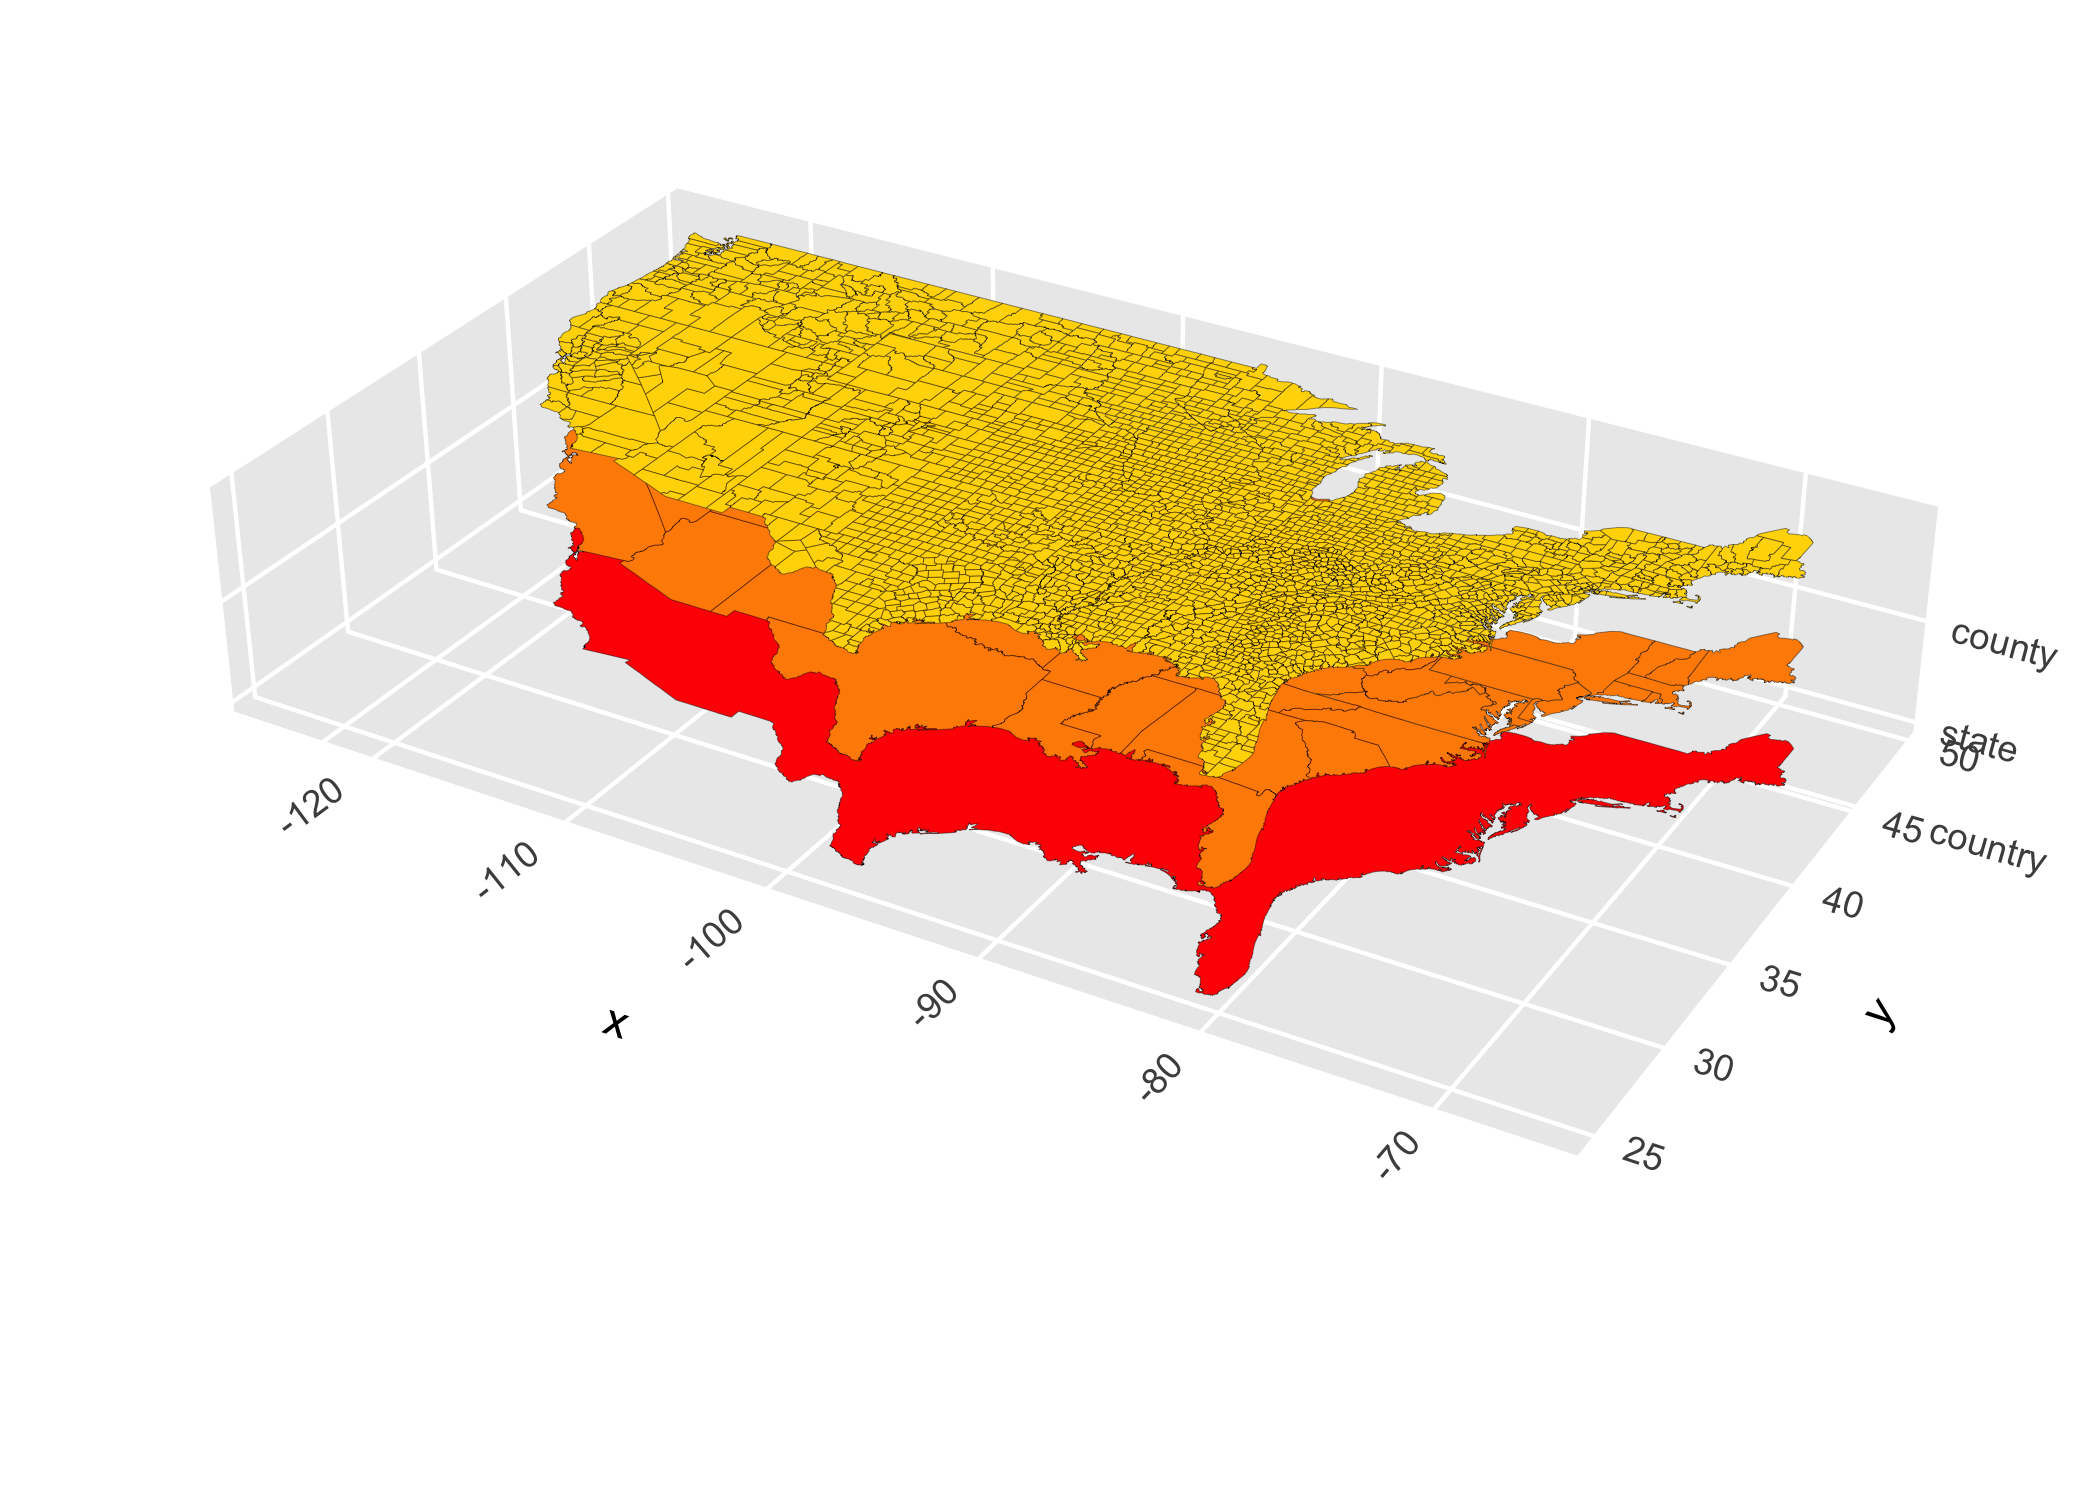
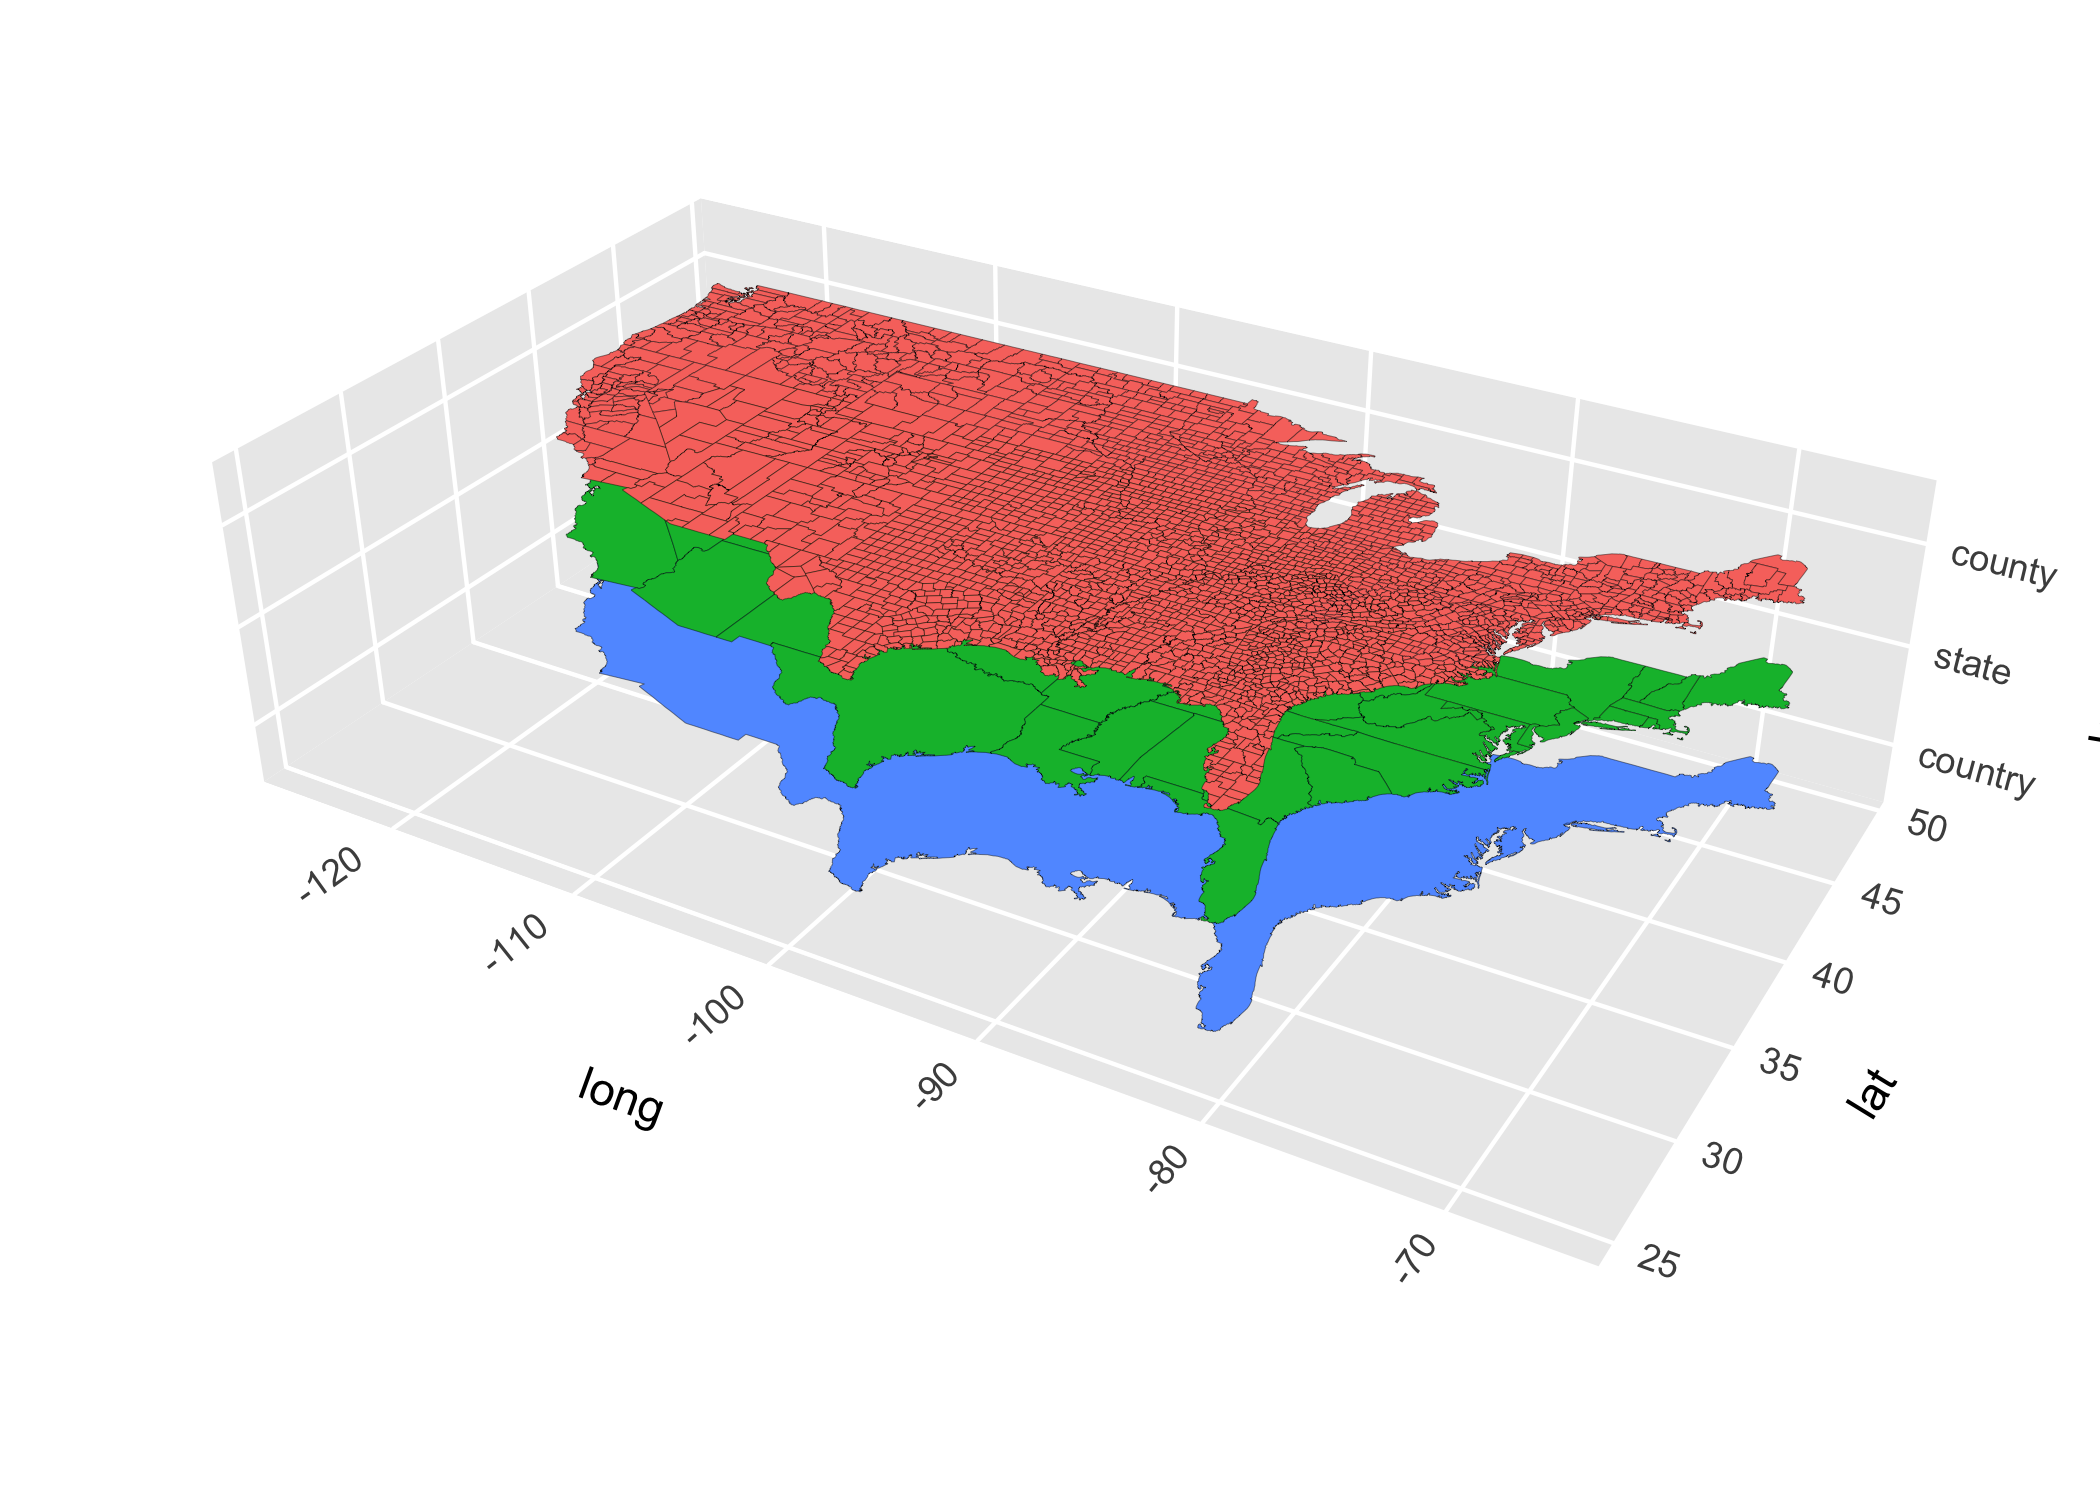
cleanup and documentation

diff --git a/README.md b/README.md
@@ -17,26 +17,35 @@ surfaces and volumes.
 
 ## Example
 
-Let’s make a 3D scatter plot of the `mpg` dataset. Compared to a
-standard 2D ggplot, we simply expand the aesthetic mapping to include
-our third variable, and then add `coord_3d()`:
+Let’s start with a super basic 3D scatter plot of the `mpg` dataset.
+Compared to a standard 2D ggplot, we simply expand the aesthetic mapping
+to include our third variable, and then add `coord_3d()`:
 
 ``` r
 library(ggplot2)
 library(ggcube)
 
-ggplot(mpg, aes(displ, hwy, cty)) +  # Enhanced aes() from ggcube
-  geom_point() +                     # From ggplot2  
-  coord_3d()                         # From ggcube
+ggplot(mpg, aes(displ, hwy, cty, color = drv)) +  # Enhanced aes() from ggcube
+      geom_point() + # From ggplot2
+      coord_3d() # From ggcube
 ```
 
 <img src="man/figures/README-example-1.png" width="100%" />
 
-    #> scale_z_continuous() running
-    #> Coord3D setup_panel_params() running ... done
-    #> Coord3D transform() running
-    #> Coord3D render_cube() running
-    #> Coord3D render_cube() running
+But the library also provides its own `geom_point_3d` function that
+includes features like scaling point size by perceived distance, and
+adding reference points projected as 2D scatterplots on the panel faces:
+
+``` r
+ggplot(mpg, aes(displ, hwy, cty, color = drv)) +
+      geom_point_3d(
+            ref_points = TRUE,
+            ref_faces = c("xmax", "ymin", "zmin"),
+            ref_point_alpha = .25) + 
+      coord_3d()
+```
+
+<img src="man/figures/README-scatter-1.png" width="100%" />
 
 A key 3D stat is `stat_surface()`, which can be used to plot grid-like
 data that has a z-value for every x-y combination, such as function
@@ -64,41 +73,29 @@ ggplot(d, aes(x, y, z)) +
 
 <img src="man/figures/README-surface-1.png" width="100%" />
 
-    #> scale_z_continuous() running
-    #> Coord3D setup_panel_params() running ... done
-    #> Coord3D transform() running
-    #> Coord3D render_cube() running
-    #> Coord3D render_cube() running
-
 You can also create an arbitrary third axis along which to array a set
 of data. Here’s an example using a map of the US:
 
 ``` r
 # data
-country <- map_data("usa") %>% mutate(z = 2)
-state <- map_data("state") %>% mutate(z = 1)
-county <- map_data("county") %>% mutate(z = 0)
-d <- bind_rows(country, state, county)
+country <- map_data("usa") %>% mutate(level = "country")
+state <- map_data("state") %>% mutate(level = "state")
+county <- map_data("county") %>% mutate(level = "county")
+d <- bind_rows(country, state, county) %>%
+      mutate(level = factor(level, levels = c("county", "state", "country"))) %>%
+      mutate(group = paste0(level, "_", group)) %>%
+      arrange(group, order)
 
 # plot
 d %>%
-      ggplot(aes(long, lat, z, fill = z, 
-                 group = paste(letters[3-z], group))) +
-      geom_polygon(color = "black", linewidth = .05) +
-      scale_fill_gradient(high = "red", low = "gold") +
+      ggplot(aes(long, lat, level, fill = level, group = group)) +
+      geom_polygon_3d(color = "black", linewidth = .05) +
       coord_3d(scales = "fixed", ratio = c(1, 1.3, 5),
                pitch = 0, roll = -60, yaw = 30) +
-      scale_z_continuous(breaks = 1:3, labels = c("county", "state", "country")) +
       theme(legend.position = "none")
-#> scale_z_continuous() running
 ```
 
 <img src="man/figures/README-layers-1.png" width="100%" />
-
-    #> Coord3D setup_panel_params() running ... done
-    #> Coord3D transform() running
-    #> Coord3D render_cube() running
-    #> Coord3D render_cube() running
 
 ## Installation
 
